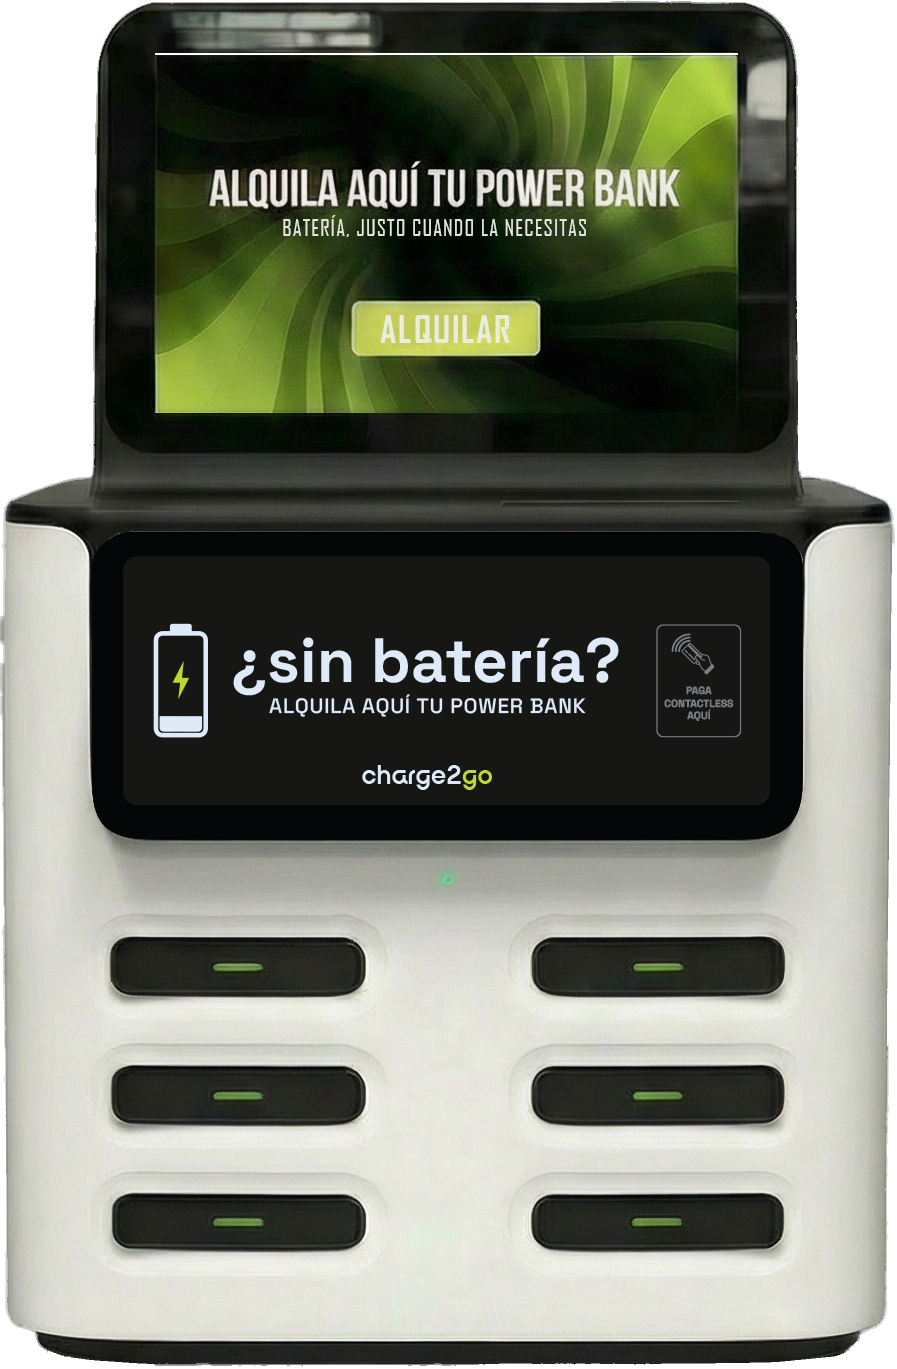
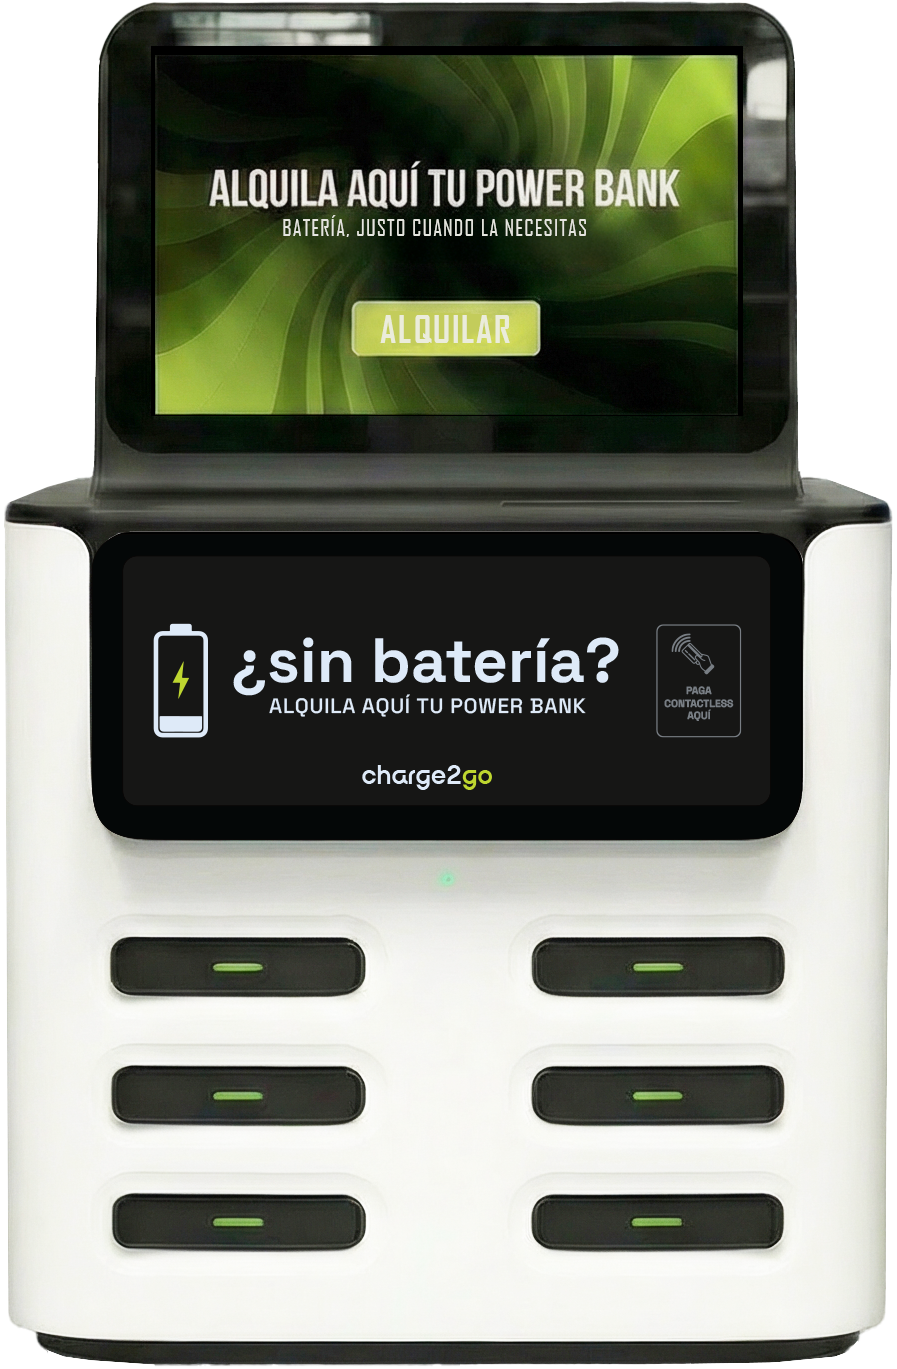
Update machine image, remove fictitious stats and Madrid reference
- New maquina.png asset
- Remove "300+ puntos de carga activos" (unvalidated stat)
- Remove "empezando por Madrid" from expansion copy

diff --git a/index.html b/index.html
@@ -716,17 +716,15 @@ footer { background: #080D17; border-top: 1px solid rgba(255,255,255,0.06); padd
     <div class="map-heading fade-up">
       <span class="eyebrow">Red de máquinas</span>
       <h2>Estamos donde la gente se mueve.</h2>
-      <p>Expandiéndonos ciudad a ciudad, empezando por Madrid.</p>
+      <p>Expandiéndonos ciudad a ciudad.</p>
     </div>
     <div class="map-stats-aside fade-up d1">
-      <div class="map-stat-item"><div class="map-num">300+</div><div class="map-label">Puntos de carga activos</div></div>
       <div class="map-stat-item"><div class="map-num">6–12</div><div class="map-label">Power banks por máquina</div></div>
       <div class="map-stat-item"><div class="map-num">&lt;30'</div><div class="map-label">Instalación en tu local</div></div>
     </div>
   </div>
   <div id="map"></div>
   <div class="map-divider">
-    <div class="map-div-item"><div class="map-div-num">300+</div><div class="map-div-label">Puntos de carga activos</div></div>
     <div class="map-div-item"><div class="map-div-num">6–12</div><div class="map-div-label">Power banks por máquina</div></div>
     <div class="map-div-item"><div class="map-div-num">&lt;30'</div><div class="map-div-label">Instalación en tu local</div></div>
   </div>
